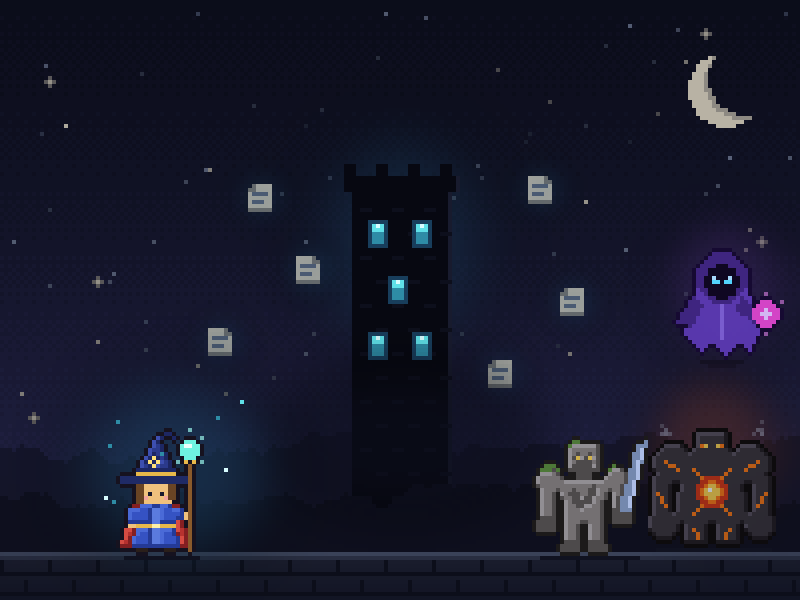
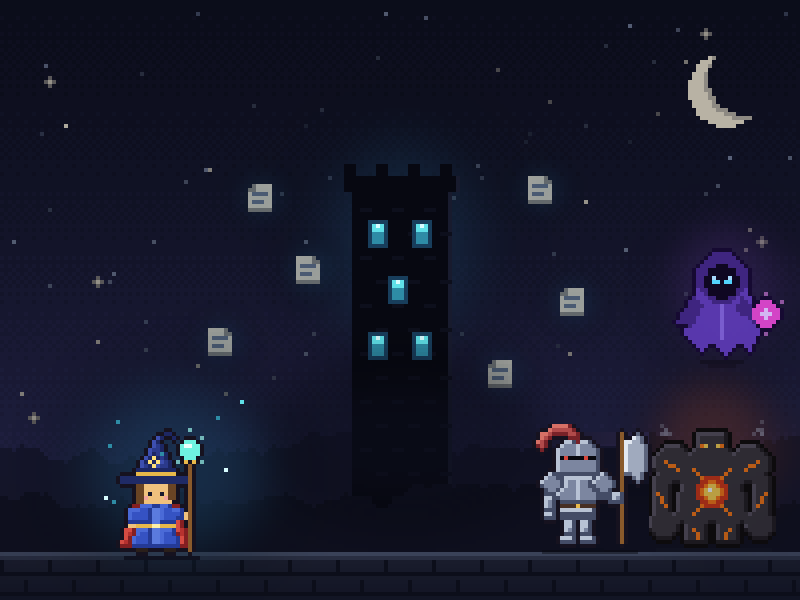
Se agregaron las clases Espectro, Caballero y Pergamino (el códice a defender). Ya aparecen en el tablero

Changed region(s): [[0.6562, 0.69, 0.8125, 0.96]]

diff --git a/src/Pergamino.cpp b/src/Pergamino.cpp
@@ -1,0 +1,45 @@
+#include "Pergamino.h"
+
+ Pergamino::Pergamino(int _fila, int _columna, TipoHabilidad _habilidad){
+    vidaActual = VIDA_MAXIMA;
+    fila = _fila;
+    columna = _columna;
+    habilidad = _habilidad;
+    texturaIntacto.loadFromFile("Imagenes/pergamino_codice_iso.png");
+    texturaDaniado.loadFromFile("Imagenes/pergamino_codice_danio_iso.png");
+};
+
+ void Pergamino::recibirDanio(int cantidadDanio){
+    vidaActual -= cantidadDanio;
+    if(vidaActual < 0){
+        vidaActual = 0;
+    }
+ };
+    
+ bool Pergamino::estaDestruido() const{
+    return vidaActual == 0;
+};
+
+TipoHabilidad Pergamino::getHabilidad() const{
+    return habilidad;
+};
+
+void Pergamino::mostrar(sf::RenderWindow& ventana, const Mapa& mapa) const{
+    sf::Sprite sprite;
+
+    if (vidaActual > VIDA_MAXIMA / 2){
+        sprite.setTexture(texturaIntacto);
+    }else{
+        sprite.setTexture(texturaDaniado);
+    }
+
+	sf::FloatRect bordes = sprite.getLocalBounds(); 
+    sprite.setOrigin(bordes.width / 2, bordes.height - CENTRO_ROMBO_DESDE_ABAJO);
+
+	// Ubicar: Columna = X, Fila = Y
+	sf::Vector2f posicion = mapa.casillaAmundo(fila, columna);
+	sprite.setPosition(posicion);
+
+	// Dibujar en la ventana
+	ventana.draw(sprite);
+};

diff --git a/src/Juego.h b/src/Juego.h
@@ -1,11 +1,18 @@
 #pragma once
 #include <SFML/graphics.hpp>
 #include "Camara.h"
-#include "EstadoJuego.h"
-#include "Golem.h"
 #include "Mapa.h"
 #include "Mago.h"
 #include "Menu.h"
+#include "Caballero.h"
+#include "Golem.h"
+#include "Espectro.h"
+#include "Pergamino.h"
+
+enum class EstadoJuego{
+    MENU,
+    JUGANDO
+};
 
 class Juego {
 	private:
@@ -13,12 +20,15 @@ class Juego {
 		static const int ALTO_VENTANA = 600;
 		static constexpr float MARGEN_CAMARA = 64.f; // espacio alrededor del tablero para el HUD
 
-		// IMPORTANTE: el orden importa. C++ crea los atributos en el orden en que estan declarados,
+		// El orden importa. C++ crea los atributos en el orden en que estan declarados,
 		// y la camara necesita que el mapa ya exista (usa mapa.getTamanioMundo())
 		sf::RenderWindow window;
 		Mapa mapa;
 		Mago mago;
 		Golem golem;
+		Espectro espectro;
+		Caballero caballero;
+		Pergamino codice;
 		Camara camara;
 		Menu menu;
 		EstadoJuego estado;

diff --git a/src/Juego.cpp b/src/Juego.cpp
@@ -3,9 +3,12 @@
 // La ventana y la camara se crean en la lista de inicializacion (despues de los ":")
 // porque no tienen constructor sin parametros
 Juego::Juego()
-	: window(sf::VideoMode(ANCHO_VENTANA, ALTO_VENTANA), "El codice del Mago"),
+	: window(sf::VideoMode(ANCHO_VENTANA, ALTO_VENTANA), "El Codice Del Mago"),
 	  mago(4,1),
+	  caballero(4,6),
+	  espectro(1,3),
 	  golem(1,5),
+	  codice(5,0,TipoHabilidad::BOLADEFUEGO),
 	  camara(mapa.getTamanioMundo(), MARGEN_CAMARA), estado(EstadoJuego::MENU)
 {
 	//Inicialización de la ventana
@@ -85,7 +88,10 @@ void Juego::dibujar() {
 		camara.aplicar(window);
 		mapa.mostrar(window);
 		mago.mostrar(window,mapa);
+		caballero.mostrar(window,mapa);
+		espectro.mostrar(window,mapa);
 		golem.mostrar(window,mapa);
+		codice.mostrar(window,mapa);
 	}
 
 	window.display();

diff --git a/src/Pergamino.h b/src/Pergamino.h
@@ -1,0 +1,22 @@
+#pragma once
+
+#include <SFML/graphics.hpp>
+#include "Mapa.h"
+
+enum class TipoHabilidad { BOLADEFUEGO, EMPUJE, MURO, PASO_ETEREO};
+
+class Pergamino {
+    private:
+        static const int VIDA_MAXIMA = 10;
+        static constexpr float CENTRO_ROMBO_DESDE_ABAJO = 34.f; // del fondo de la imagen al centro de la cara de arriba
+        int fila, columna;
+        int vidaActual;
+        TipoHabilidad habilidad;
+        sf::Texture texturaIntacto, texturaDaniado;
+    public:
+        Pergamino(int _fila, int _columna, TipoHabilidad _habilidad);
+        void recibirDanio(int cantidadDanio);
+        bool estaDestruido() const;
+        TipoHabilidad getHabilidad() const;
+        void mostrar(sf::RenderWindow& ventana, const Mapa& mapa) const;
+};

diff --git a/src/Espectro.h b/src/Espectro.h
@@ -1,0 +1,10 @@
+#pragma once
+#include "Enemigo.h"
+
+class Espectro : public Enemigo {
+    private:
+        static const int VIDA_INICIAL = 40;
+		static const int DANIO = 15;
+	public:
+		Espectro(int _fila, int _columna);
+};

diff --git a/src/Caballero.h b/src/Caballero.h
@@ -1,0 +1,11 @@
+#pragma once
+
+#include "Enemigo.h"
+
+class Caballero : public Enemigo {
+	private:
+		static const int VIDA_INICIAL = 30;
+		static const int DANIO = 25;
+	public:
+		Caballero(int _fila, int _columna);
+};

diff --git a/src/Golem.h b/src/Golem.h
@@ -4,7 +4,7 @@
 class Golem : public Enemigo {
 	private:
 		static const int VIDA_INICIAL = 60;
-		static const int DANIO = 15;
+		static const int DANIO = 10;
 	public:
 		Golem(int _fila, int _columna);
 };

diff --git a/src/Caballero.cpp b/src/Caballero.cpp
@@ -1,0 +1,5 @@
+#include "Caballero.h"
+
+Caballero::Caballero(int _fila, int _columna) : Enemigo(_fila, _columna, VIDA_INICIAL, DANIO) {
+    textura.loadFromFile("Imagenes/caballero_64.png");
+}

diff --git a/src/Espectro.cpp b/src/Espectro.cpp
@@ -1,0 +1,5 @@
+#include "Espectro.h"
+
+Espectro::Espectro(int _fila, int _columna) : Enemigo(_fila, _columna, VIDA_INICIAL, DANIO){
+   textura.loadFromFile("Imagenes/espectro_64.png");
+};

diff --git a/src/Casilla.h b/src/Casilla.h
@@ -1,5 +1,10 @@
 #pragma once
-#include "TipoTerreno.h"
+
+enum class TipoTerreno {
+	SUELO,
+	COLUMNAROTA,
+	ABISMO
+};
 
 class Casilla {
 	private:

diff --git a/src/Enemigo.cpp b/src/Enemigo.cpp
@@ -7,3 +7,4 @@ Enemigo::Enemigo(int _fila, int _columna, int _vida, int _danio)
 int Enemigo::getDanio() const {
 	return danio;
 }
+

diff --git a/src/main.cpp b/src/main.cpp
@@ -5,7 +5,5 @@ int main()
     Juego juego;
     juego.ejecutar();
 
-    //Liberación del juego
-
     return 0;
 }
